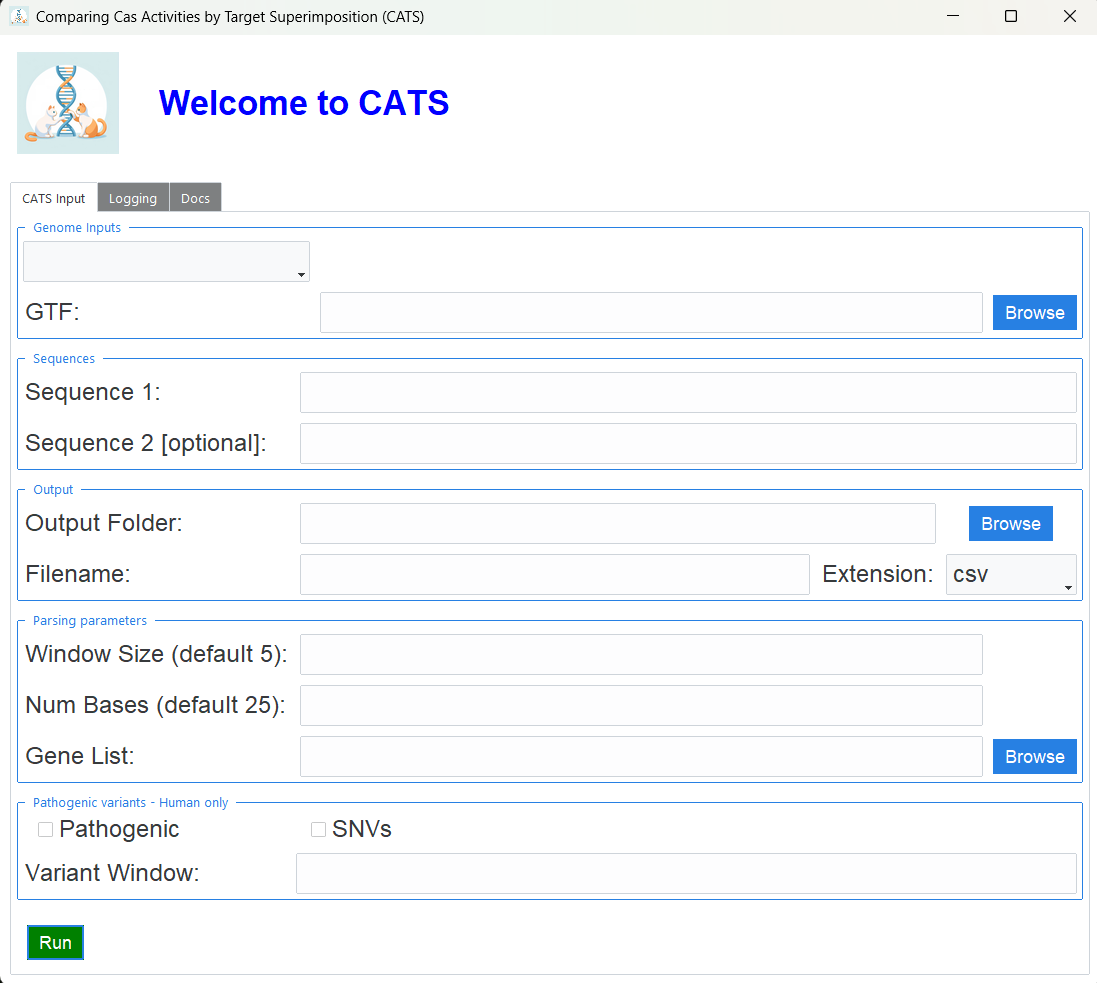
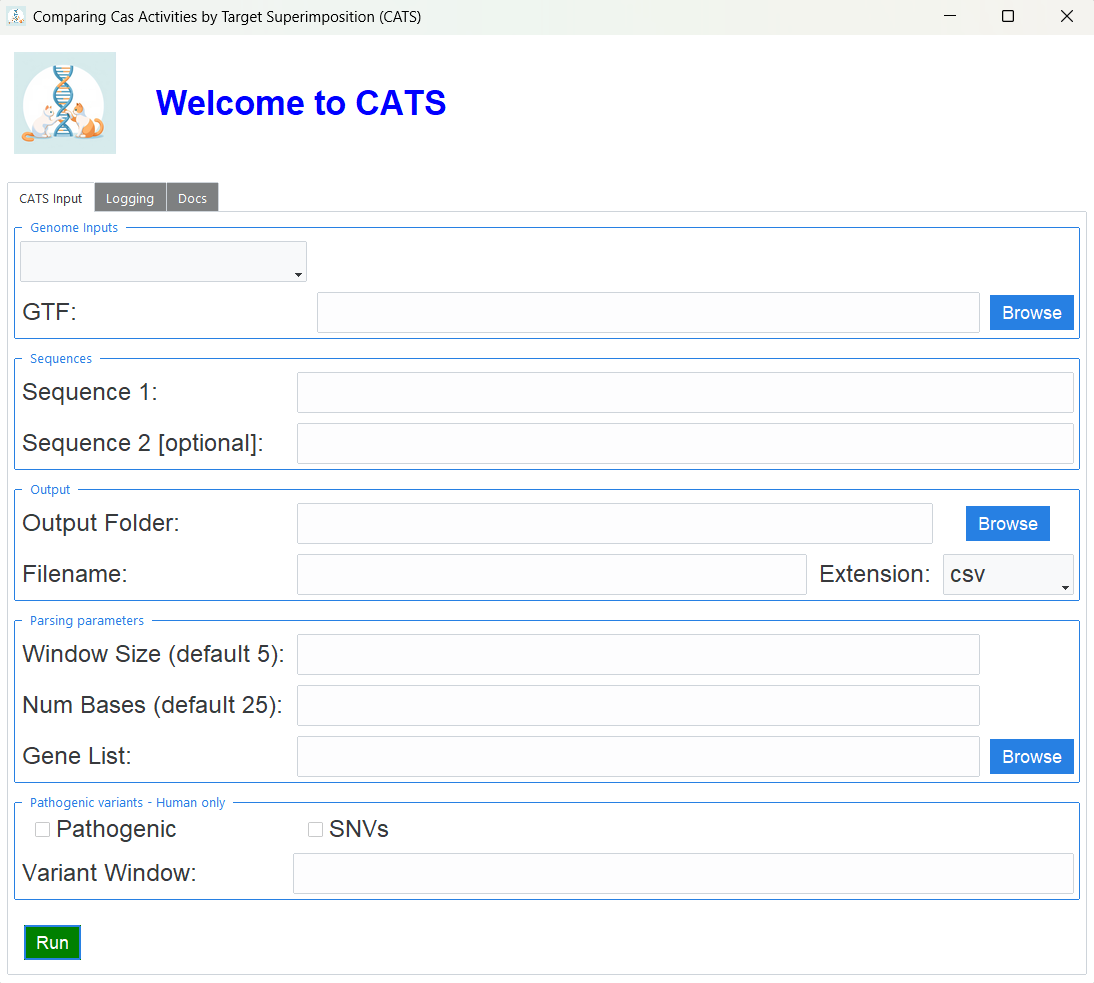
[docs] updated README

diff --git a/README.md b/README.md
@@ -33,7 +33,20 @@
    ```
 
 ### GUI installation
-Install the latest release, ensuring that you download the version compatible with your operating system.
+
+Install the latest [release](https://github.com/Physics4MedicineLab/CATS/releases), ensuring that you download the version compatible with your operating system.
+
+**NOTE for macOS users**:
+
+After downloading and unzipping the CATS folder, you may need to run the following command in your terminal to ensure the application runs correctly:
+
+```bash
+xattr -dr com.apple.quarantine <dir>/CATS/
+```
+Replace `<dir>` with the full path to the directory containing the unzipped CATS folder.
+
+Only run this command **once**, _after_ you have downloaded and unzipped the folder and _before_ launching the GUI.
+
 
 ## Usage
 